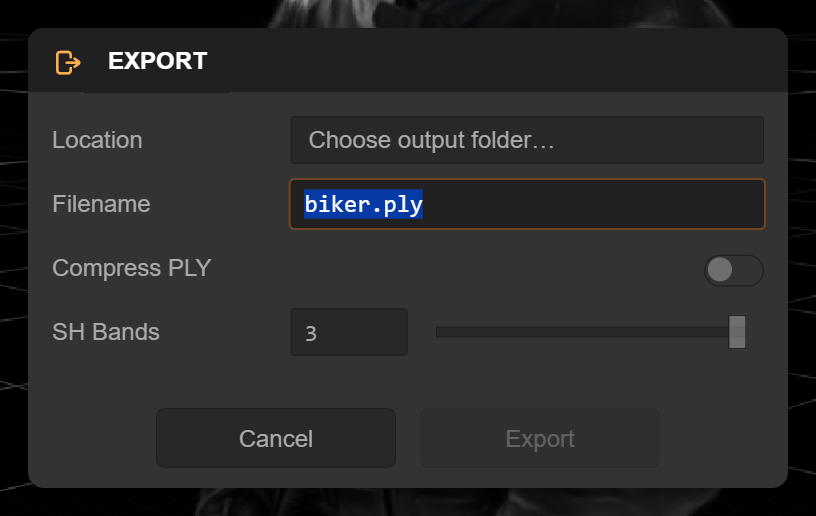
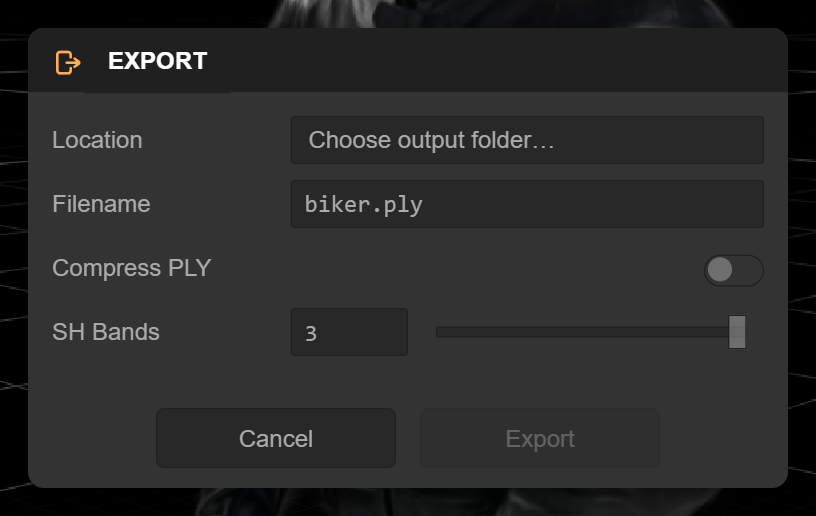
docs(supersplat): show dialog and panel crops at natural size
Displays the 2x dialog and panel screenshots at their on-screen width with
sized img tags instead of stretching them to the content width, embeds the
Overlays and Preferences popup shots on the Interface page, and re-takes
the export, viewer export, and publish dialogs with no focused field.

Changed region(s): [[0.337, 0.3411, 0.9498, 0.4651]]

diff --git a/i18n/ja/docusaurus-plugin-content-docs/current/user-manual/supersplat/editor/color-and-appearance.md b/i18n/ja/docusaurus-plugin-content-docs/current/user-manual/supersplat/editor/color-and-appearance.md
@@ -12,7 +12,7 @@ SuperSplatでスプラットの見え方に影響するコントロールは2種
 
 [Scene Manager](scene-management.md)の最下部、**Transform**の下にある**Colors**セクションを展開します。スライダーは保留中のカラーグレードを保持し、対象となるガウシアン（現在の選択範囲、または何も選択していない場合はアクティブスプラット全体）にビューポートでリアルタイムにプレビューされます。**Apply**をクリックすると、グレードがそれらのガウシアンにベイクされ、スライダーは次の調整に備えてニュートラルに戻ります。一部の領域だけを異なる設定でグレーディングするには、先にその領域を選択します。
 
-![Scene ManagerのColorsセクション](/img/user-manual/supersplat/editor/scene-manager-colors.png)
+<img src="/img/user-manual/supersplat/editor/scene-manager-colors.png" alt="Scene ManagerのColorsセクション" width="340" />
 
 ### コントロール
 
@@ -47,7 +47,7 @@ Black PointをWhite Pointより高く設定することはできません。**Re
 
 **Appearance**ポップアップは[右ツールバー](interface.md#right-toolbar)の最初のボタンから開きます。設定は環境設定とともに保存され、ビューポートにだけ影響します。
 
-![Appearanceポップアップ](/img/user-manual/supersplat/editor/appearance-panel.png)
+<img src="/img/user-manual/supersplat/editor/appearance-panel.png" alt="Appearanceポップアップ" width="418" />
 
 ### Display
 

diff --git a/docs/user-manual/supersplat/editor/color-and-appearance.md b/docs/user-manual/supersplat/editor/color-and-appearance.md
@@ -12,7 +12,7 @@ Two different sets of controls affect how a splat looks in SuperSplat:
 
 Expand the **Colors** section at the bottom of the [Scene Manager](scene-management.md), below **Transform**. The sliders hold a pending color grade that is previewed live in the viewport on the Gaussians it would affect: the current selection, or the whole active splat when nothing is selected. Click **Apply** to bake the grade into those Gaussians; the sliders then return to neutral, ready for the next adjustment. To grade one region differently from the rest, select it first.
 
-![The Colors section of the Scene Manager](/img/user-manual/supersplat/editor/scene-manager-colors.png)
+<img src="/img/user-manual/supersplat/editor/scene-manager-colors.png" alt="The Colors section of the Scene Manager" width="340" />
 
 ### Controls
 
@@ -47,7 +47,7 @@ Applied grades become part of the splat's color data, so they are stored in `.ss
 
 Open the **Appearance** popup from the first button in the [right toolbar](interface.md#right-toolbar). Its settings are saved with your preferences and affect only the viewport.
 
-![The Appearance popup](/img/user-manual/supersplat/editor/appearance-panel.png)
+<img src="/img/user-manual/supersplat/editor/appearance-panel.png" alt="The Appearance popup" width="418" />
 
 ### Display
 

diff --git a/docs/user-manual/supersplat/editor/import-export.md b/docs/user-manual/supersplat/editor/import-export.md
@@ -87,7 +87,7 @@ PLY sequences are memory-intensive since each frame loads a complete splat scene
 
 To export your currently loaded scene, open the `File` > `Export` submenu and choose **PLY**, **SOG**, **SPZ**, **Splat**, or **Viewer App**. Exports include the visible splats only. Every export uses the same dialog:
 
-![The export dialog with its Location and Filename rows](/img/user-manual/supersplat/editor/export-dialog.png)
+<img src="/img/user-manual/supersplat/editor/export-dialog.png" alt="The export dialog with its Location and Filename rows" width="408" />
 
 - **Location** - The output folder. The Editor remembers the folder you last exported to; click **Choose output folder…** (or **Change…**) to pick another. In browsers without the File System Access API this row is hidden and the file is delivered as a download instead.
 - **Filename** - The name of the output file. The dialog warns if the name is invalid or already exists in the folder (the button then reads **Overwrite**), and it refuses to overwrite a file that the current scene is still reading from.

diff --git a/i18n/ja/docusaurus-plugin-content-docs/current/user-manual/supersplat/getting-started.md b/i18n/ja/docusaurus-plugin-content-docs/current/user-manual/supersplat/getting-started.md
@@ -54,7 +54,7 @@ description: "SuperSplatで最初のスプラットを約10分で公開する：
 2. お気に入りの構図を決めます。公開されたシーンは、カメラをそのまま残した位置から始まります。
 3. **File → Publish**を選び、スプラットに**Title**と**Description**を入力して、**Publish**をクリックします。
 
-![Publishダイアログ](/img/user-manual/supersplat/editor/publish-settings.png)
+<img src="/img/user-manual/supersplat/editor/publish-settings.png" alt="Publishダイアログ" width="428" />
 
 SOG形式への圧縮には少し時間がかかり、非常に大きなシーンでは数分かかることもあります。完了すると、新しい[シーンページ](scene-page.md)のURLがダイアログに表示されます。新しいスプラットは**Unlisted**（限定公開）です。リンクを知っている人は誰でも閲覧できますが、ステップ5でPublicにするまでExploreには表示されません。
 

diff --git a/docs/user-manual/supersplat/editor/interface.md b/docs/user-manual/supersplat/editor/interface.md
@@ -78,6 +78,8 @@ The **Appearance** popup (the first button in the [Right Toolbar](#right-toolbar
 
 The **Overlays** popup (the eye icon in the [Right Toolbar](#right-toolbar)) holds viewport helpers and diagnostics. Each row is a toggle; click anywhere on the row to flip it.
 
+<img src="/img/user-manual/supersplat/editor/overlays-panel.png" alt="The Overlays popup" width="418" />
+
 | Section | Control | Default | Description |
 |---|---|---|---|
 | Helpers | **Grid** (`G`) | On | Shows the reference grid. |
@@ -94,6 +96,8 @@ Click the reset icon in the popup's header to restore the Overlays defaults.
 ## Preferences
 
 The **Preferences** popup (the gear icon in the [Right Toolbar](#right-toolbar)) holds application-wide settings. They are saved in your browser and restored the next time you open the Editor.
+
+<img src="/img/user-manual/supersplat/editor/preferences-panel.png" alt="The Preferences popup" width="418" />
 
 | Section | Setting | Default | Description |
 |---|---|---|---|

diff --git a/docs/user-manual/supersplat/getting-started.md b/docs/user-manual/supersplat/getting-started.md
@@ -54,7 +54,7 @@ Choose **File → Save** to keep an `.ssproj` project file. It preserves your ed
 2. Frame your favorite view. The published scene opens with the camera exactly where you leave it.
 3. Choose **File → Publish**, give the splat a **Title** and a **Description**, and click **Publish**.
 
-![The Publish dialog](/img/user-manual/supersplat/editor/publish-settings.png)
+<img src="/img/user-manual/supersplat/editor/publish-settings.png" alt="The Publish dialog" width="428" />
 
 Compression to SOG takes a moment, and several minutes for very large scenes. When it finishes, a dialog shows the URL of your new [scene page](scene-page.md). New splats are **Unlisted**: anyone with the link can view them, but they won't appear in Explore until you make them Public in step 5.
 

diff --git a/docs/user-manual/supersplat/editor/camera-controls.md b/docs/user-manual/supersplat/editor/camera-controls.md
@@ -64,7 +64,7 @@ By default, changing the Field of View behaves like a lens zoom: the camera stay
 
 Press **I** (or enable **Camera Info** in the **Overlays** popup) to toggle an information overlay in the bottom-left corner of the viewport:
 
-![Camera Info Overlay](/img/user-manual/supersplat/editor/camera-info-overlay.png)
+<img src="/img/user-manual/supersplat/editor/camera-info-overlay.png" alt="Camera Info Overlay" width="520" />
 
 The overlay shows the camera's live pose as `x, y, z` coordinates in scene units, updating in real time as you navigate:
 

diff --git a/i18n/ja/docusaurus-plugin-content-docs/current/user-manual/supersplat/editor/publishing.md b/i18n/ja/docusaurus-plugin-content-docs/current/user-manual/supersplat/editor/publishing.md
@@ -29,7 +29,7 @@ superspl.atに公開する代わりに（または併用して）自前のサー
 2. `Publish`を選択します。
 3. `Publish`ダイアログのオプションを記入します：
 
-   ![Publish Settings](/img/user-manual/supersplat/editor/publish-settings.png)
+   <img src="/img/user-manual/supersplat/editor/publish-settings.png" alt="Publish Settings" width="428" />
 
    | オプション | 説明 |
    |--------|-------------|

diff --git a/i18n/ja/docusaurus-plugin-content-docs/current/user-manual/supersplat/viewer/self-hosting.md b/i18n/ja/docusaurus-plugin-content-docs/current/user-manual/supersplat/viewer/self-hosting.md
@@ -19,7 +19,7 @@ description: "SuperSplat Editorからスプラットを自己完結型のHTMLビ
 
 ビューアのエクスポートはいくつかのオプションで設定できます：
 
-![Viewer Export](/img/user-manual/supersplat/viewer/viewer-export.png)
+<img src="/img/user-manual/supersplat/viewer/viewer-export.png" alt="Viewer Export" width="408" />
 
 | オプション | 説明 |
 |--------|-------------|
